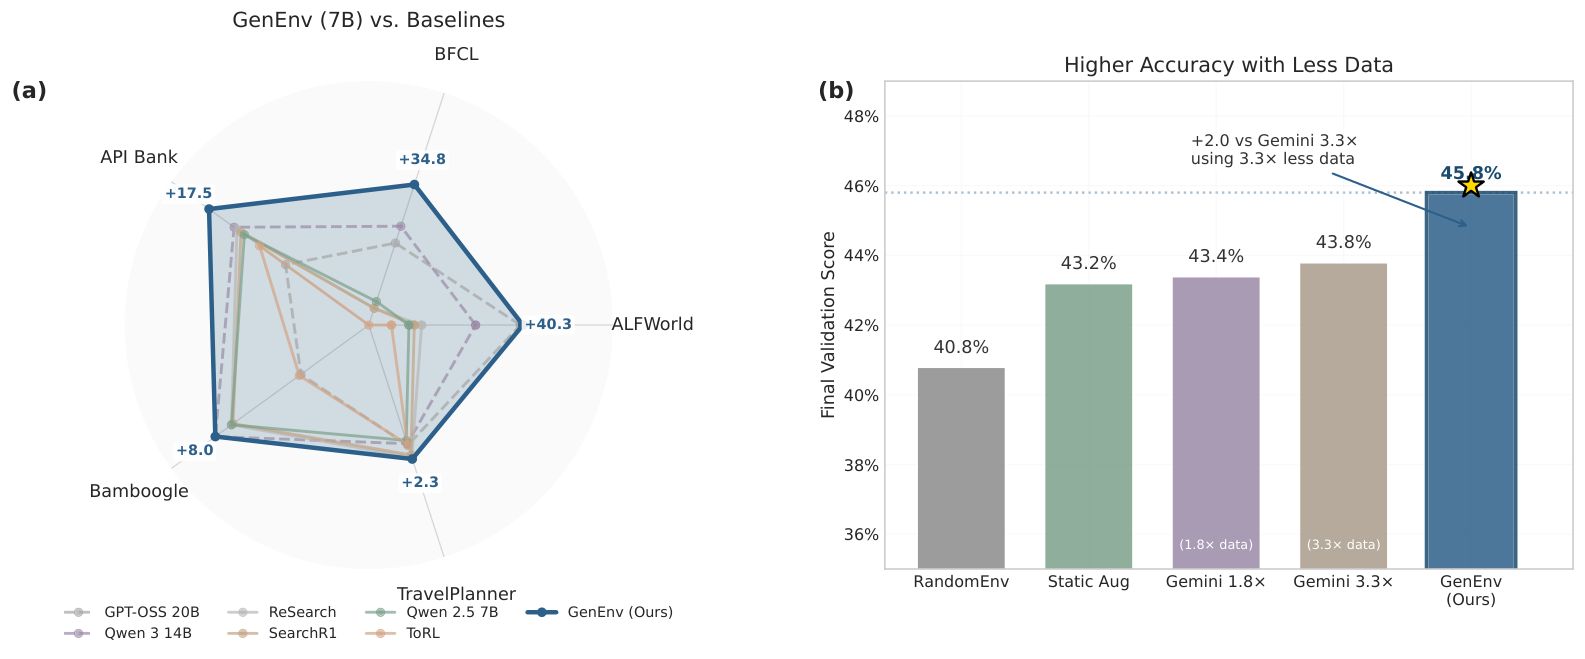
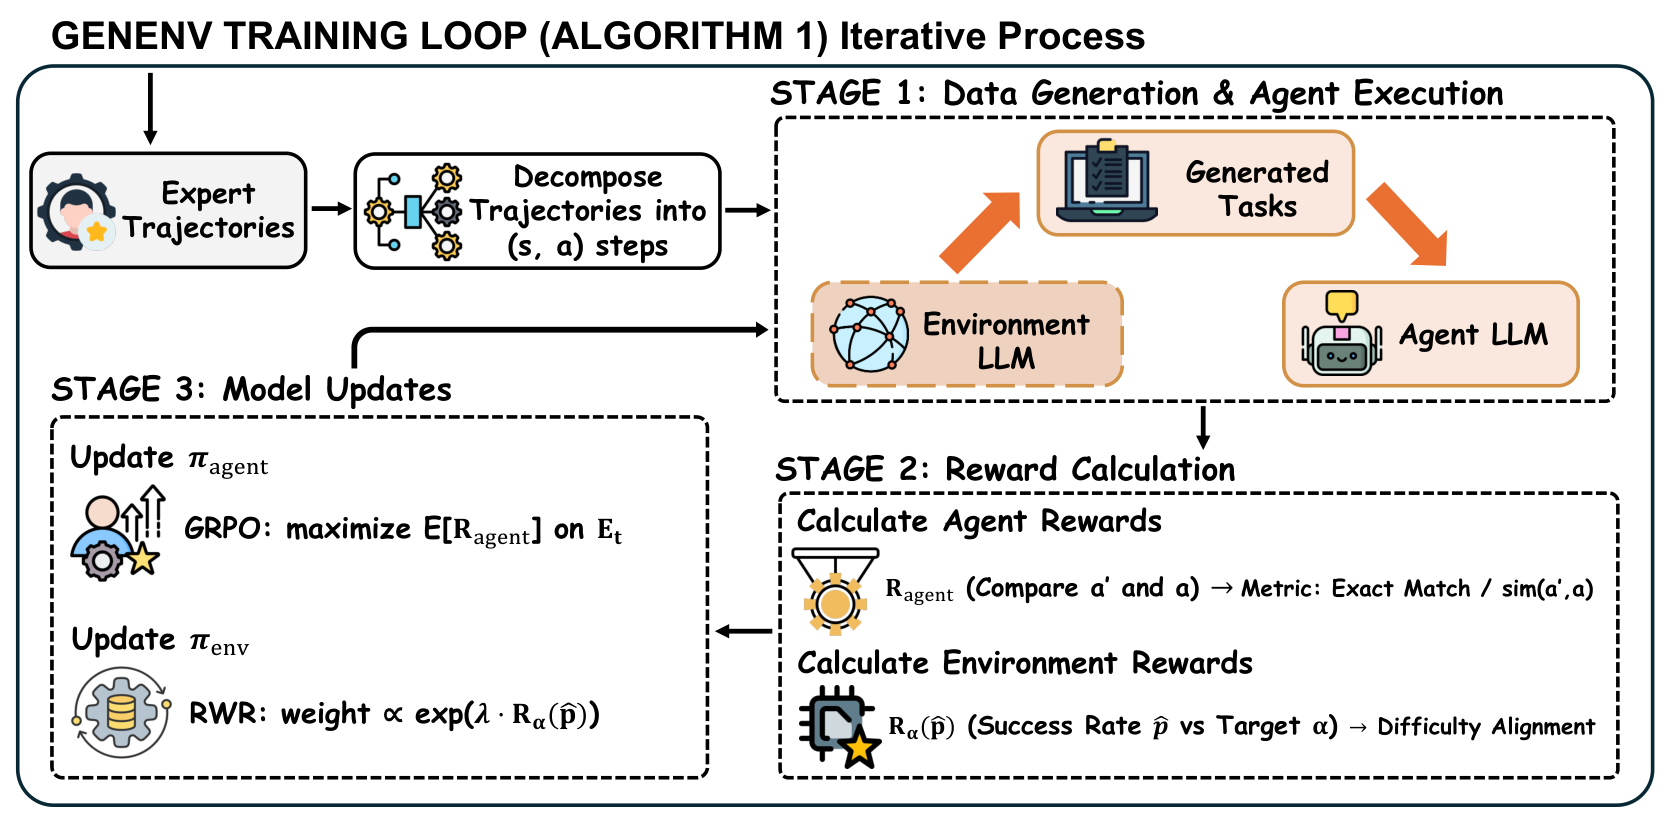
Move media to thumbnails with lightbox, shorten descriptions, swap figures
Claude-Session: https://claude.ai/code/session_01NEuuTKTEkQAhBFfNodmtM4

diff --git a/index.html b/index.html
@@ -116,7 +116,8 @@
     background: var(--tag); border-radius: 999px;
   }
   .projects { display: flex; flex-direction: column; gap: 2.4rem; list-style: none; margin: 0; padding: 0; }
-  .project { display: grid; grid-template-columns: 5.5rem 1fr; gap: 0.5rem 1.5rem; }
+  .project { display: grid; grid-template-columns: 9rem 1fr; gap: 0.5rem 1.5rem; }
+  .aside { display: flex; flex-direction: column; gap: 0.6rem; }
   .when {
     font-family: "IBM Plex Mono", ui-monospace, monospace;
     font-size: 0.8rem; color: var(--muted);
@@ -140,18 +141,47 @@
     font-family: "IBM Plex Mono", ui-monospace, monospace;
     font-size: 0.8rem;
   }
-  .project video, .project img {
-    display: block; max-width: 100%; max-height: 420px;
-    margin-top: 0.4rem;
-    border: 1px solid var(--rule); border-radius: 6px;
-    background: #000;
+  .thumb {
+    display: block; width: 100%; padding: 0; margin: 0;
+    border: 1px solid var(--rule); border-radius: 4px;
+    background: var(--tag); cursor: zoom-in; overflow: hidden;
+    aspect-ratio: 4 / 3;
+    transition: border-color 120ms ease;
   }
-  .project img { background: #fff; }
+  .thumb:hover, .thumb:focus-visible { border-color: var(--accent); }
+  .thumb:focus-visible { outline: 2px solid var(--accent); outline-offset: 2px; }
+  .thumb img {
+    display: block; width: 100%; height: 100%; object-fit: contain; pointer-events: none;
+  }
+  .thumb.is-video img { object-fit: cover; }
+  .thumb.is-video { background: #000; }
+  dialog.lightbox {
+    border: 0; padding: 0; margin: auto;
+    max-width: min(96vw, 1200px); max-height: 92vh;
+    background: transparent; overflow: visible;
+  }
+  dialog.lightbox::backdrop { background: rgba(10, 10, 8, 0.82); }
+  dialog.lightbox img, dialog.lightbox video {
+    display: block; max-width: min(96vw, 1200px); max-height: 88vh;
+    border-radius: 6px; background: #fff;
+  }
+  dialog.lightbox video { background: #000; }
+  dialog.lightbox p {
+    color: #e9e6df; font-size: 0.85rem; text-align: center; margin: 0.6rem 0 0; max-width: none;
+  }
+  .lightbox-close {
+    position: absolute; top: -0.25rem; right: 0; transform: translateY(-100%);
+    background: none; border: 0; color: #e9e6df; font: inherit; font-size: 0.85rem;
+    cursor: pointer; padding: 0.25rem 0;
+  }
+  .lightbox-close:focus-visible { outline: 2px solid #e88a3a; }
   footer { color: var(--muted); font-size: 0.85rem; border-top: 1px solid var(--rule); padding-top: 1.25rem; }
   @media (max-width: 560px) {
     main { padding-top: 3rem; }
     h1 { font-size: 2rem; }
-    .project { grid-template-columns: 1fr; gap: 0.2rem; }
+    .project { grid-template-columns: 1fr; gap: 0.6rem; }
+    .aside { flex-direction: row; align-items: center; gap: 1rem; }
+    .thumb { width: 7.5rem; flex: none; }
     .when { padding-top: 0; }
   }
   @media (prefers-reduced-motion: reduce) { a { transition: none; } }
@@ -188,20 +218,28 @@
     <ul class="projects">
 
       <li class="project">
-        <div class="when">2026</div>
+        <div class="aside">
+          <div class="when">2026</div>
+          <button class="thumb" type="button" data-src="media/beta.png" data-kind="image" data-caption="The BETA Arena: chart pane, data rail and tool-call console" aria-label="Enlarge figure: The BETA Arena">
+            <img src="media/beta.png" alt="" loading="lazy">
+          </button>
+        </div>
         <div class="project-body">
           <h3>BETA <span class="status">To be released</span></h3>
           <p>A point-in-time trading environment: an agent sits at the close of a decision date, queries raw price and volume tools that refuse any later data, and forecasts a return. Frontier models score at or below simple momentum rules, while a 4B model post-trained on the benchmark places third and holds up past their training cutoffs.</p>
-          <img src="media/beta.png" alt="BETA task formulation" loading="lazy">
         </div>
       </li>
 
       <li class="project">
-        <div class="when">2026</div>
+        <div class="aside">
+          <div class="when">2026</div>
+          <button class="thumb is-video" type="button" data-src="media/choruz.mp4" data-poster="media/choruz-poster.jpg" data-kind="video" data-caption="Demo video" aria-label="Play demo video">
+            <img src="media/choruz-poster.jpg" alt="" loading="lazy">
+          </button>
+        </div>
         <div class="project-body">
           <h3>Choruz</h3>
           <p>An open-source, local-first collaboration platform where humans and AI agents work together in a Slack-like space. CLI agents such as Claude Code and Codex get their own workspaces, tasks and files across multiple devices, and talk to people and to each other through the same channels.</p>
-          <video src="media/choruz.mp4" width="654" height="368" controls preload="metadata" playsinline></video>
           <ul class="project-links">
             <li><a href="https://github.com/inclusionAI/Choruz">github.com/inclusionAI/Choruz</a></li>
             <li><a href="https://x.com/JiachengGu50887/status/2095656605752897708">thread</a></li>
@@ -210,11 +248,15 @@
       </li>
 
       <li class="project">
-        <div class="when">2026</div>
+        <div class="aside">
+          <div class="when">2026</div>
+          <button class="thumb is-video" type="button" data-src="media/aqua.mp4" data-poster="media/aqua-poster.jpg" data-kind="video" data-caption="Demo video" aria-label="Play demo video">
+            <img src="media/aqua-poster.jpg" alt="" loading="lazy">
+          </button>
+        </div>
         <div class="project-body">
           <h3>AQuA</h3>
           <p>Recursively self-improving quantitative research agents: one loop discovers factors, another develops trainable models, and both use evidence from their own past experiments to propose better ones.</p>
-          <video src="media/aqua.mp4" width="368" height="640" controls preload="metadata" playsinline></video>
           <ul class="project-links">
             <li><a href="https://arxiv.org/pdf/2608.12841">arXiv</a></li>
             <li><a href="https://x.com/JiachengGu50887/status/2088336767267283069">thread</a></li>
@@ -223,11 +265,15 @@
       </li>
 
       <li class="project">
-        <div class="when">2026</div>
+        <div class="aside">
+          <div class="when">2026</div>
+          <button class="thumb" type="button" data-src="media/panelwise.png" data-kind="image" data-caption="Three model perspectives fused into one answer" aria-label="Enlarge figure: Three model perspectives fused into one answer">
+            <img src="media/panelwise.png" alt="" loading="lazy">
+          </button>
+        </div>
         <div class="project-body">
           <h3>PanelWise</h3>
-          <p>An open-source engine that sends the same task to a panel of frontier models and fuses their answers, with one topology for research questions and another for stateful work like coding. On the DRACO deep-research benchmark the frontier panel scores 73.7 against 68.3 for OpenRouter Fusion with the same models.</p>
-          <img src="media/panelwise.png" alt="Three model perspectives fused into one answer" loading="lazy">
+          <p>An open-source engine that sends the same task to a panel of frontier models and fuses their answers, with one topology for research questions and another for stateful work like coding.</p>
           <ul class="project-links">
             <li><a href="https://github.com/inclusionAI/PanelWise">github.com/inclusionAI/PanelWise</a></li>
           </ul>
@@ -235,11 +281,15 @@
       </li>
 
       <li class="project">
-        <div class="when">2025</div>
+        <div class="aside">
+          <div class="when">2025</div>
+          <button class="thumb" type="button" data-src="media/genenv.png" data-kind="image" data-caption="GenEnv training loop" aria-label="Enlarge figure: GenEnv training loop">
+            <img src="media/genenv.png" alt="" loading="lazy">
+          </button>
+        </div>
         <div class="project-body">
           <h3>GenEnv</h3>
-          <p>Difficulty-aligned co-evolution between an LLM agent and a generative environment simulator that keeps producing tasks at the edge of what the agent can do. A 7B model gains up to 40% with 3.3× less data than static augmentation.</p>
-          <img src="media/genenv.png" alt="GenEnv results against baselines" loading="lazy">
+          <p>Difficulty-aligned co-evolution between an LLM agent and a generative environment simulator that keeps producing tasks at the edge of what the agent can do.</p>
           <ul class="project-links">
             <li><a href="https://arxiv.org/abs/2512.19682">arXiv</a></li>
           </ul>
@@ -247,11 +297,15 @@
       </li>
 
       <li class="project">
-        <div class="when">2025</div>
+        <div class="aside">
+          <div class="when">2025</div>
+          <button class="thumb" type="button" data-src="media/cryptobench.png" data-kind="image" data-caption="CryptoBench task structure" aria-label="Enlarge figure: CryptoBench task structure">
+            <img src="media/cryptobench.png" alt="" loading="lazy">
+          </button>
+        </div>
         <div class="project-body">
           <h3>CryptoBench</h3>
-          <p>An expert-curated, monthly-refreshed benchmark for LLM agents in cryptocurrency, where information is time-critical, adversarial and scattered across on-chain and DeFi sources. Leading models retrieve well but are markedly weaker once a question requires analysis.</p>
-          <img src="media/cryptobench.png" alt="CryptoBench task structure" loading="lazy">
+          <p>An expert-curated, monthly-refreshed benchmark for LLM agents in cryptocurrency, where information is time-critical, adversarial and scattered across on-chain and DeFi sources.</p>
           <ul class="project-links">
             <li><a href="https://arxiv.org/pdf/2512.00417">arXiv</a></li>
             <li><a href="https://x.com/JiachengGu50887/status/1995945316542283845">thread</a></li>
@@ -260,11 +314,15 @@
       </li>
 
       <li class="project">
-        <div class="when">2025</div>
+        <div class="aside">
+          <div class="when">2025</div>
+          <button class="thumb" type="button" data-src="media/prefvar.png" data-kind="image" data-caption="Low versus high preference variance prompts" aria-label="Enlarge figure: Low versus high preference variance prompts">
+            <img src="media/prefvar.png" alt="" loading="lazy">
+          </button>
+        </div>
         <div class="project-body">
           <h3>Preference Variance</h3>
-          <p>For DPO, the gradient a prompt can contribute is bounded by the variance of the reward model's preference over its response pairs. Training on the top 10% of prompts by that variance beats training on the full UltraFeedback set.</p>
-          <img src="media/prefvar.png" alt="Low versus high preference variance prompts" loading="lazy">
+          <p>For DPO, the gradient a prompt can contribute is bounded by the variance of the reward model's preference over its response pairs.</p>
           <ul class="project-links">
             <li><a href="https://arxiv.org/pdf/2510.13022">arXiv</a></li>
           </ul>
@@ -272,11 +330,15 @@
       </li>
 
       <li class="project">
-        <div class="when">2025</div>
+        <div class="aside">
+          <div class="when">2025</div>
+          <button class="thumb" type="button" data-src="media/temporal.png" data-kind="image" data-caption="Cost versus F1 across methods and models" aria-label="Enlarge figure: Cost versus F1 across methods and models">
+            <img src="media/temporal.png" alt="" loading="lazy">
+          </button>
+        </div>
         <div class="project-body">
           <h3>Temporal Consistency</h3>
-          <p>Test-time scaling for verifiers: an LLM checks a reasoning process step by step, then re-examines its own verdict over several rounds until it stops changing. Distilled 7B and 8B models with this loop beat 70B models and GPT-4o on ProcessBench.</p>
-          <img src="media/temporal.png" alt="F1 gains from temporal consistency on three benchmarks" loading="lazy">
+          <p>Test-time scaling for verifiers: an LLM checks a reasoning process step by step, then re-examines its own verdict over several rounds until it stops changing.</p>
           <ul class="project-links">
             <li><a href="https://aclanthology.org/anthology-files/pdf/findings/2025.findings-emnlp.1205.pdf">paper</a></li>
           </ul>
@@ -288,5 +350,39 @@
 
   <footer>Jiacheng Guo · Princeton, NJ</footer>
 </main>
+<dialog class="lightbox" id="lightbox" aria-label="Enlarged media">
+  <button class="lightbox-close" type="button" id="lightbox-close">Close ×</button>
+  <div id="lightbox-body"></div>
+  <p id="lightbox-caption"></p>
+</dialog>
+<script>
+  (function () {
+    var dlg = document.getElementById("lightbox");
+    var body = document.getElementById("lightbox-body");
+    var cap = document.getElementById("lightbox-caption");
+    if (!dlg || typeof dlg.showModal !== "function") return;
+    function close() { dlg.close(); }
+    function open(btn) {
+      body.innerHTML = "";
+      var el;
+      if (btn.dataset.kind === "video") {
+        el = document.createElement("video");
+        el.src = btn.dataset.src; el.controls = true; el.autoplay = true; el.playsInline = true; el.poster = btn.dataset.poster || "";
+      } else {
+        el = document.createElement("img");
+        el.src = btn.dataset.src; el.alt = btn.dataset.caption || "";
+      }
+      body.appendChild(el);
+      cap.textContent = btn.dataset.caption || "";
+      dlg.showModal();
+    }
+    document.querySelectorAll(".thumb").forEach(function (b) {
+      b.addEventListener("click", function () { open(b); });
+    });
+    document.getElementById("lightbox-close").addEventListener("click", close);
+    dlg.addEventListener("click", function (e) { if (e.target === dlg) close(); });
+    dlg.addEventListener("close", function () { body.innerHTML = ""; });
+  })();
+</script>
 </body>
 </html>
